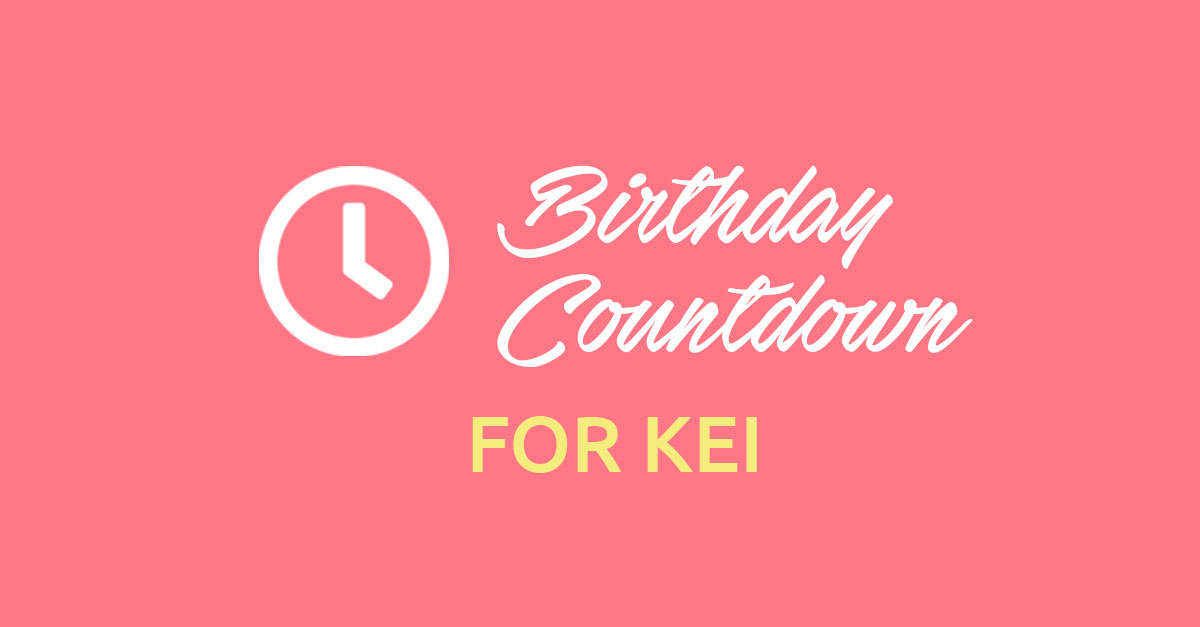
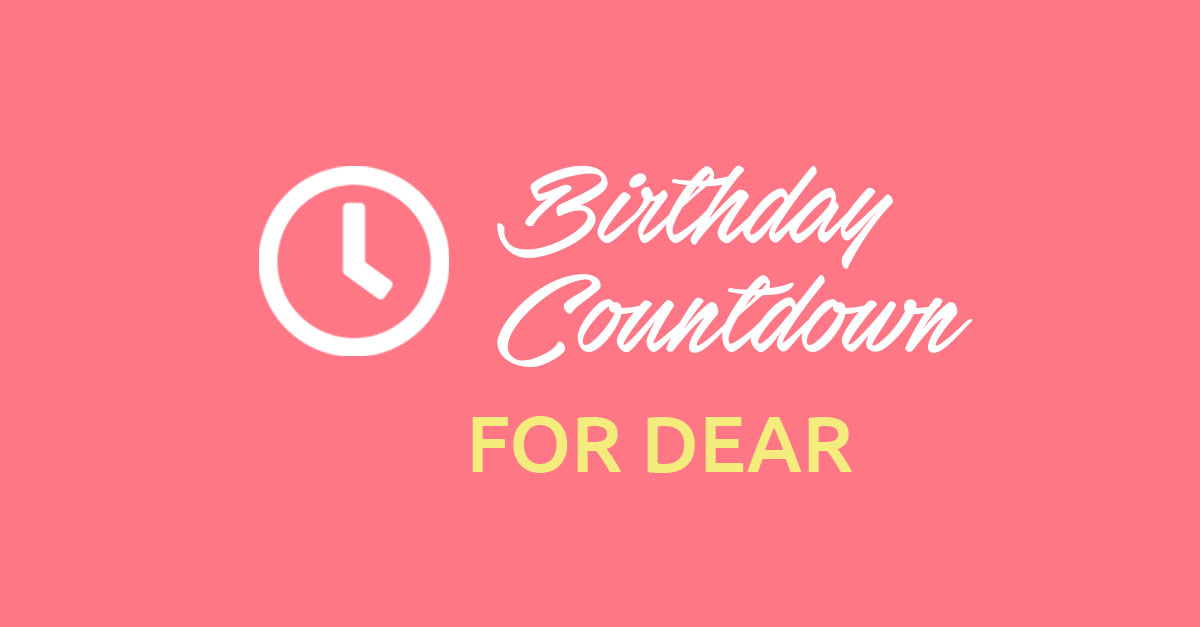
adjusted time and thumbnail

Changed region(s): [[0.5242, 0.6667, 0.7092, 0.7576]]

diff --git a/index.html b/index.html
@@ -8,7 +8,7 @@
 <meta name="og:title" property="og:title" content="Edna's Birthday Countdown">
 <meta name="description" content="A little surprise for Edna when the timer hits 0">
 <meta property="og:image" content="https://raw.githubusercontent.com/rapsamaniego27/birthday-kei/master/images/thumb.JPG">
-<meta property="og:url" content="https://birthday-kei.netlify.app/">
+<meta property="og:url" content="https://birthday-edna.netlify.app/">
 <link rel="shortcut icon" href="#">
 <link rel="preconnect" href="https://fonts.gstatic.com">
 <link
@@ -23,7 +23,7 @@
   <link rel="stylesheet" href="./css/footer.css">
   <link rel="stylesheet" href="https://cdnjs.cloudflare.com/ajax/libs/font-awesome/5.15.1/css/all.min.css" />
 </head>
-<body>
+<body class="body-flex">
   <div id="wrapper">
     <h3 class="cake meta--hide"><i class="fas fa-birthday-cake fa-3x cake"></i></h3>
     <h1 id="pageTitle">Hello my darling</h1>
@@ -142,8 +142,8 @@
           class="fab fa-facebook-f"></i></a>
       <a href="mailto:rapsamaniego27@gmail.com?subject=Greetings Ralph" class="social-media" target="_blank"><i
           class="fas fa-envelope"></i></a>
-      <a href="https://twitter.com/Rapunk77" class="social-media"><i class="fab fa-twitter"></i></a>
-      <a href="https://github.com/rapsamaniego27/birthday-kei" class="social-media"><i class="fab fa-github"></i></a>
+      <a href="https://twitter.com/rapunk77" class="social-media"><i class="fab fa-twitter"></i></a>
+      <a href="https://birthday-edna.netlify.app/" class="social-media"><i class="fab fa-github"></i></a>
     </div>
     <p class="footer-texts">Coded by yours truly Rap Esteva &copy; 2023</p>
   </footer>

diff --git a/js/app.js b/js/app.js
@@ -53,19 +53,22 @@ class Countdown{
   
   this.displayTime(values);
   
-/*   if(timeDiff < 0 ){ */
+  if(timeDiff < 0 ){
    clearInterval(this.countdownInterval);
    deadline.innerHTML = ``;
    const pageTitle = document.querySelector('#pageTitle');
+   const body = document.querySelector('body');
+   
 
    pageTitle.innerHTML = `Birthday Poem <br> for Edna`;
    document.querySelector('.deadline-meta').classList.add('meta--hide');
    document.querySelector('.date-poem').classList.remove('meta--hide');
    document.querySelector('.cake').classList.remove('meta--hide');
    document.querySelector('.announcement').classList.add('meta--hide');
+   body.classList.remove('body-flex');
    
 
-/*   } */
+  }
  }
 
  /* Displays in front end */

diff --git a/css/styles.css b/css/styles.css
@@ -18,6 +18,13 @@ body{
   background: radial-gradient(var(--light-primary), var(--primary), var(--dark-primary));
 }
 
+.body-flex{
+  display:flex;
+  justify-content:center;
+  align-items: center;
+  flex-direction: column;
+}
+
 #wrapper{
   display:flex;
   flex-direction: column;
@@ -25,6 +32,7 @@ body{
   justify-content:center;
   align-items: center;
   flex-direction: column;
+  padding:0 1.5rem;
 }
 
 

diff --git a/js/declarations.js b/js/declarations.js
@@ -31,7 +31,7 @@ const yearToday = new Date().getFullYear();
 /* ALWAYS remember to start counting from 0 */
 
 /* Formatted in new Date(year, month, day, hours, minutes, seconds, milliseconds) */
-let futureDate = new Date(yearToday, 10, 27, 0, 0);
+let futureDate = new Date(yearToday, 9, 14, 0, 0);
 
 
 /* Notes */
